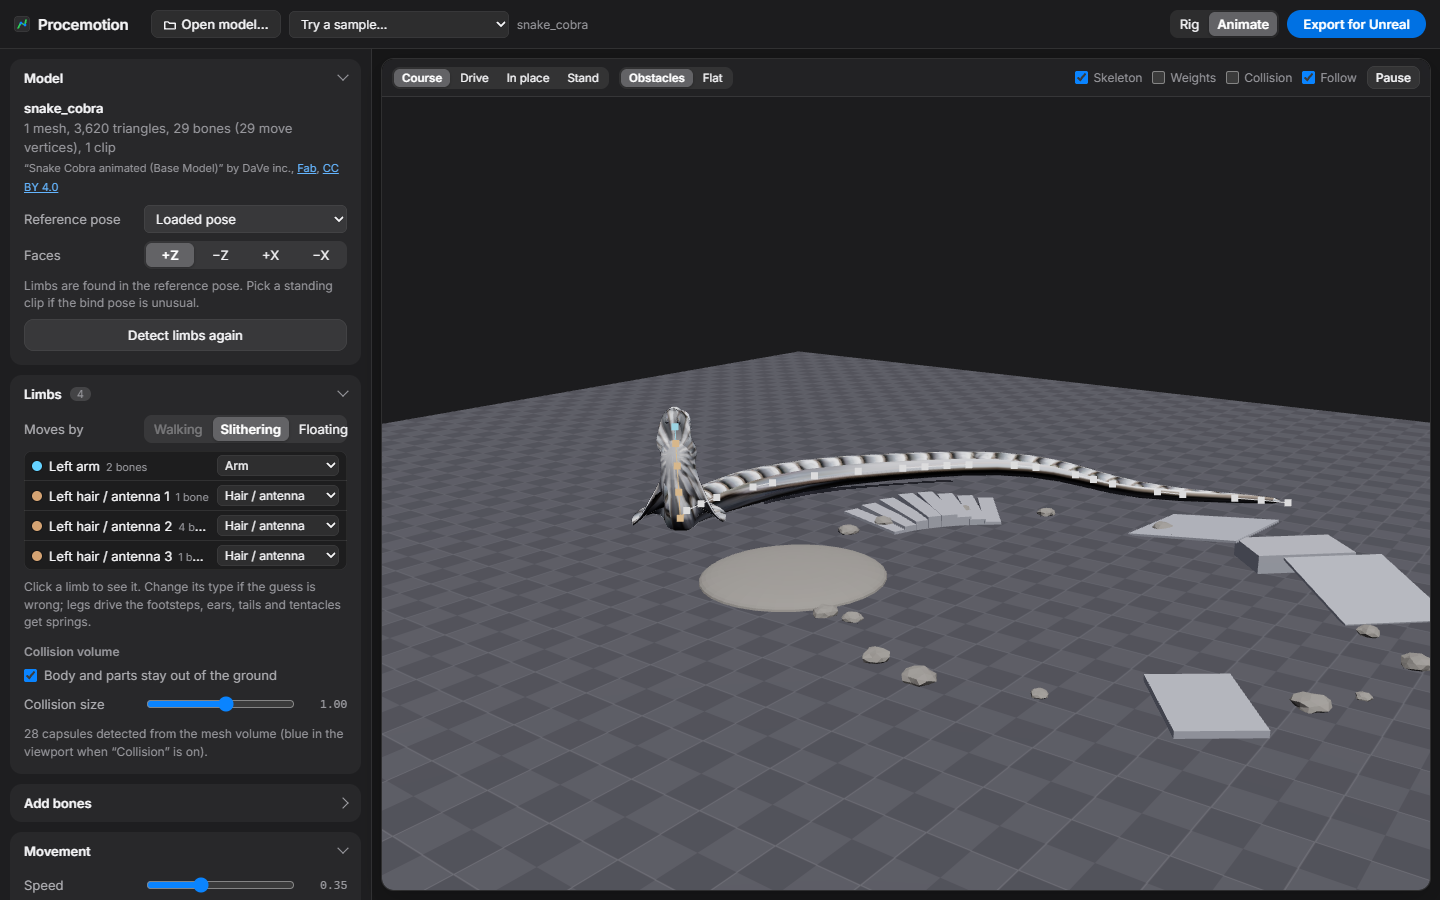
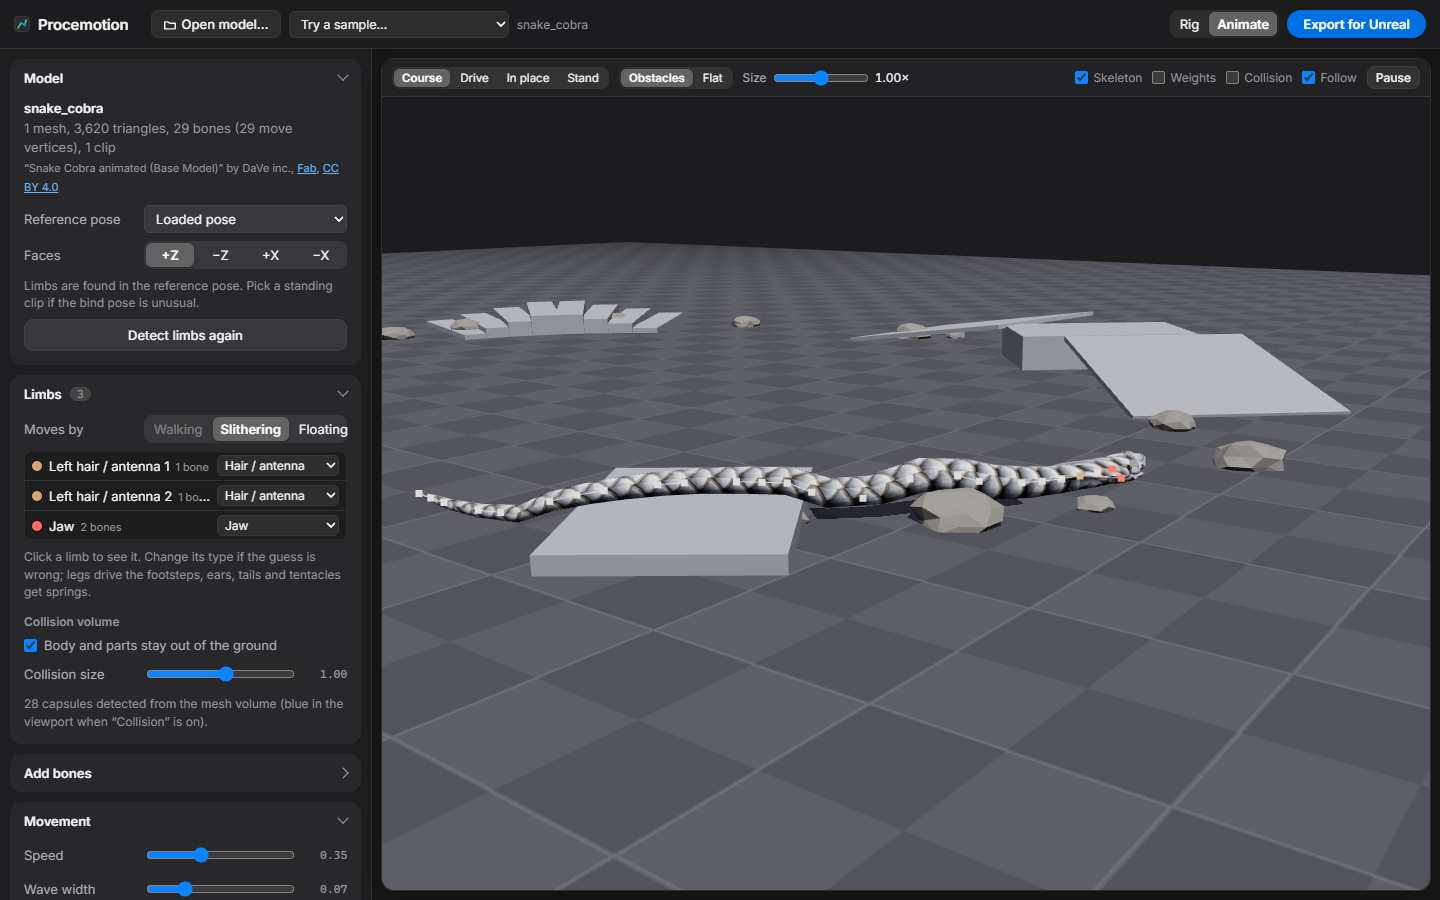
Snake climbs the course; Size slider in the viewport; serpent head and jaw
- Course sized by a serpent's length, head kept on the path, ground sampled under each joint
- Fixed the body flipping about the tail end when the chain has no tail past its root
- Serpent head continues to where it forks: lower branch is the Jaw, the snout moves with the head
- Size slider (0.25x to 4x, original in the middle) next to Obstacles / Flat
- Re-recorded the slither clip and snake screenshot

diff --git a/index.html b/index.html
@@ -40,7 +40,7 @@
     <div class="panel feature"><div class="ic"><svg viewBox="0 0 24 24" aria-hidden="true"><path d="M3 19h4l3-5 4 2 3-6h4"/><circle cx="7" cy="19" r="1"/><circle cx="17" cy="10" r="1"/></svg></div><h3>Feet on the ground</h3><p>Every step lands on the rock, slope or stair below it, and the body follows the ground. Tails and bodies keep out of it.</p></div>
     <div class="panel feature"><div class="ic"><svg viewBox="0 0 24 24" aria-hidden="true"><path d="M3 15c3-6 6-8 9-8s6 2 9 8"/><path d="M8 15l-2 4M16 15l2 4"/></svg></div><h3>Walk, gallop, all fours</h3><p>From a walk into a gallop as it speeds up. Two legs and two arms drop onto all fours to run, like a bear.</p></div>
     <div class="panel feature"><div class="ic"><svg viewBox="0 0 24 24" aria-hidden="true"><path d="M2 13c4-4 7-5 10-1 3-4 6-3 10 1"/><path d="M12 12v6"/></svg></div><h3>Flight</h3><p>Wingbeats modelled on real birds: a strong downstroke, folded upstroke, flap-and-glide, take-off and landing.</p></div>
-    <div class="panel feature"><div class="ic"><svg viewBox="0 0 24 24" aria-hidden="true"><path d="M3 16c3 0 3-5 6-5s3 5 6 5 3-5 6-5"/><circle cx="20.5" cy="10.5" r="1"/></svg></div><h3>Slither</h3><p>Snakes follow their own path with the head raised, and a serpent with wings or ears flies like a Chinese dragon.</p></div>
+    <div class="panel feature"><div class="ic"><svg viewBox="0 0 24 24" aria-hidden="true"><path d="M3 16c3 0 3-5 6-5s3 5 6 5 3-5 6-5"/><circle cx="20.5" cy="10.5" r="1"/></svg></div><h3>Slither</h3><p>Snakes follow their own path over rocks and steps, and a serpent with wings or ears flies like a Chinese dragon.</p></div>
     <div class="panel feature"><div class="ic"><svg viewBox="0 0 24 24" aria-hidden="true"><path d="M6 3c0 6 6 6 6 12s-4 6-4 6"/><path d="M16 3c-2 4 2 6 0 10"/></svg></div><h3>Springs</h3><p>Ears, tails, hair and tentacles swing with the body: they react to speeding up and turning, and stay out of the ground.</p></div>
     <div class="panel feature"><div class="ic"><svg viewBox="0 0 24 24" aria-hidden="true"><rect x="4" y="4" width="16" height="16" rx="2" stroke-dasharray="3 2"/><circle cx="9" cy="10" r="1.2"/><circle cx="14" cy="13" r="1.2"/></svg></div><h3>Fix it by hand</h3><p>When a model is unusual, box its joints and say what they are: leg, wing, tail. Saved for the next time you open it.</p></div>
     <div class="panel feature"><div class="ic"><svg viewBox="0 0 24 24" aria-hidden="true"><path d="M12 3v12M8 11l4 4 4-4"/><path d="M5 20h14"/></svg></div><h3>Add bones</h3><p>Give ears, tentacles and tails bones of their own, rig a model that has no skeleton, or add joints to a bendy body.</p></div>
@@ -61,8 +61,8 @@
     <figure class="demo"><a class="pic" href="app/?demo=spider"><img src="/img/demo-spider.png" alt="The sample spider walking on eight legs" loading="lazy"></a>
       <figcaption><b>Spider</b><span>Eight legs that step in two alternating groups of four.</span><a class="open go" href="app/?demo=spider">Open in the app</a>
       <small>“Spider animated character” by <a href="https://www.fab.com/listings/62456bda-b5f6-4372-8673-6471359c5e50">Bestgameassets</a> · CC BY 4.0</small></figcaption></figure>
-    <figure class="demo"><a class="pic" href="app/?demo=snake"><img src="/img/demo-snake.png" alt="The sample cobra slithering with its head raised" loading="lazy"></a>
-      <figcaption><b>Cobra</b><span>Slithering along its own path, head raised.</span><a class="open go" href="app/?demo=snake">Open in the app</a>
+    <figure class="demo"><a class="pic" href="app/?demo=snake"><img src="/img/demo-snake.png" alt="The sample cobra slithering over the test course" loading="lazy"></a>
+      <figcaption><b>Cobra</b><span>Slithering along its own path, over rocks and steps.</span><a class="open go" href="app/?demo=snake">Open in the app</a>
       <small>“Snake Cobra animated (Base Model)” by <a href="https://www.fab.com/listings/fa501201-17e7-49c2-a36a-a3b55834cfc7">DaVe inc.</a> · CC BY 4.0</small></figcaption></figure>
     <figure class="demo"><a class="pic" href="app/?demo=dragon&amp;fly=1"><img src="/img/demo-dragon.png" alt="The sample dragon flying over the course" loading="lazy"></a>
       <figcaption><b>Dragon</b><span>Wings and flight. Its 154 bones were classified by hand in the app; the classes come with it.</span><a class="open go" href="app/?demo=dragon&amp;fly=1">Open in the app</a>

diff --git a/src/main.js b/src/main.js
@@ -76,7 +76,7 @@ new ResizeObserver(resize).observe(canvas.parentElement);
 // ------------------------------------------------------------------ state
 const S = {
   creature: null, info: null, motion: null, ref: null, bind: null, refKey: 'rest', facing: '+Z',
-  footSets: [], mode: 'anim', ground: 'course', drive: 'course', selected: null, follow: true,
+  footSets: [], mode: 'anim', ground: 'course', modelScale: 1, drive: 'course', selected: null, follow: true,
   added: [], undo: [], clips: [], playing: null, place: null, template: null, suggestions: [], bakeSel: new Set(['walk', 'run', 'idle']),
   weightsOn: false, savedMaterials: null,
 };
@@ -174,6 +174,7 @@ async function openFiles(files) {
     holder.add(model);
     const cr = new Creature(model, animations, name);
     S.creature = cr;
+    setModelScale(0);
     S.clips = [];
     S.added = []; S.undo = [];
     S.selected = null;
@@ -267,8 +268,7 @@ function analyse({ keepLimbs = false, fresh = false } = {}) {
   refreshCapsules();
   // walking creatures need the standing pose as the reference pose in UE (Locomotor); others keep their own
   $('#rebindRef').checked = S.motion.legs.length > 0;
-  terrain.build(S.info.H, S.ground);
-  if (S.mode === 'rig') terrain.group.children.forEach((c) => { c.visible = c.name === 'Floor'; });
+  buildGround();
   S.motion.reset();
   fitCamera();
   if (S.mode === 'rig') enterRigPose();
@@ -1040,7 +1040,7 @@ function fitCameraH(H) {
   camera.near = H * 0.01; camera.far = H * 300; camera.updateProjectionMatrix();
   orbit.target.set(0, H * 0.5, 0);
   camera.position.set(H * 1.9, H * 0.9, H * 2.6);
-  terrain.build(H, S.ground);
+  buildGround();
 }
 function drawTemplate(keepSel) {
   clearGroup(tplGroup);
@@ -1214,9 +1214,32 @@ $('#groundSeg').addEventListener('click', (e) => {
   const b = e.target.closest('button'); if (!b) return;
   S.ground = b.dataset.g;
   $$('#groundSeg button').forEach((x) => x.classList.toggle('on', x === b));
-  terrain.build(S.info ? S.info.H : S._H || 1, S.ground);
+  buildGround();
   if (S.motion) S.motion.reset();
 });
+/**
+ * The test course is sized to the creature: by its height, or for a serpent by its length (a long, low body would
+ * otherwise get obstacles far smaller than its own thickness). Size (viewport) shows the model bigger or smaller
+ * than that by building the course the other way round, so the model, its motion and the export stay as they are.
+ */
+function courseSize() {
+  const I = S.info;
+  const base = I ? (I.style === 'slither' ? Math.max(I.H, 0.25 * (I.reach || I.H)) : I.H) : S._H || 1;
+  return base / S.modelScale;
+}
+function buildGround() { terrain.build(courseSize(), S.ground); if (S.mode === 'rig') terrain.group.children.forEach((c) => { c.visible = c.name === 'Floor'; }); }
+// slider -2 .. 2 = 0.25x .. 4x, original size in the middle
+function setModelScale(v) {
+  $('#modelScale').value = v;
+  S.modelScale = Math.pow(2, +v);
+  $('#modelScaleVal').textContent = S.modelScale.toFixed(2) + '×';
+}
+$('#modelScale').addEventListener('input', (e) => {
+  setModelScale(e.target.value);
+  buildGround();
+  if (S.motion) S.motion.reset();
+});
+$('#modelScale').addEventListener('dblclick', () => { setModelScale(0); buildGround(); if (S.motion) S.motion.reset(); });
 $('#showSkel').addEventListener('change', (e) => skel.visible(e.target.checked));
 $('#showCollision').addEventListener('change', (e) => { capView.group.visible = e.target.checked; });
 $('#follow').addEventListener('change', (e) => { S.follow = e.target.checked; });

diff --git a/src/motion.js b/src/motion.js
@@ -807,6 +807,12 @@ export class Motion {
     const K = this.snake;
     if (!K) return;
     const b = this.body;
+    // on the course the body starts lying along the path (the head leads along it, not along its tangent)
+    if (this.mode === 'course') {
+      K.trail = [];
+      for (let d = 0; d <= K.L * 1.3; d += 0.02 * K.L) K.trail.push(this.terrain.pathPoint(b.s + K.lead - d, V()));
+      return;
+    }
     const f = V().set(Math.sin(b.yaw), 0, Math.cos(b.yaw));
     const head = V().copy(b.pos).addScaledVector(f, K.lead);
     K.trail = [head, head.clone().addScaledVector(f, -K.L * 1.3)];
@@ -817,7 +823,8 @@ export class Motion {
     const L = K.L, fb = this.flightBlend;
     const inplace = this.mode === 'inplace' || this.mode === 'stand';
     // the head leads the body; the trail records where it has been
-    const head = _c.copy(b.pos).addScaledVector(fwd, K.lead);
+    // (on the course the head stays on the path, so the body crosses the obstacles instead of cutting the loop)
+    const head = this.mode === 'course' ? this.terrain.pathPoint(b.s + K.lead, _c) : _c.copy(b.pos).addScaledVector(fwd, K.lead);
     head.y = 0;
     if (inplace) K.trail = [head.clone(), head.clone().addScaledVector(fwd, -L * 1.3)];
     else {
@@ -850,11 +857,13 @@ export class Motion {
       const lateral = Math.sin(ph) * amp * env * (1 - 0.5 * fb);
       const u = s / Math.max(1e-6, neck);
       const neckUp = u < 1 ? (0.5 + 0.5 * Math.cos(Math.PI * u)) * raise : 0;
-      const groundY = (this.flatGround ? 0 : this.ground(base.x, base.z)) + K.r0 + neckUp;
+      const t = K.targets[i].copy(base).addScaledVector(nrm, lateral);
+      // the ground under where this joint actually lies (after the sideways wave), across the body's width,
+      // so the body rides over rocks and edges instead of cutting into them
+      const groundY = (this.flatGround || fb > 0.999 ? 0 : this.ground(t.x, t.z, K.r0 * 0.8)) + K.r0 + neckUp;
       // in the air: float at the flight height with an up-down wave (Chinese dragon)
       const airY = (this.flatGround ? this.liftY : moverY) + K.r0 + neckUp * 0.5
         + Math.sin(ph + Math.PI / 2) * P.flyAmp * L * THREE.MathUtils.smoothstep(s, 0, 0.3 * L);
-      const t = K.targets[i].copy(base).addScaledVector(nrm, lateral);
       t.y = THREE.MathUtils.lerp(groundY, airY, fb);
       t.add(off);
     });
@@ -874,8 +883,10 @@ export class Motion {
       if (!real(j, j + 1) || (j === ri && rootAimed)) continue;
       aimBone(O[j], worldPos(O[j + 1]), T[j + 1]);
     }
+    // the tail tip: aim the last bone at it, unless that bone is the root already aimed at the body (a chain with
+    // no tail past the root) - turning it again would swing the whole body about the tail end
     const last = O[O.length - 1];
-    aimBone(last, last.localToWorld(K.tipLocal.clone()), T[T.length - 1]);
+    if (!(ri === O.length - 1 && rootAimed)) aimBone(last, last.localToWorld(K.tipLocal.clone()), T[T.length - 1]);
     // head: its reference orientation, turned to face along the path
     const dir = _a.copy(T[0]).sub(T[Math.min(2, T.length - 1)]);
     dir.y = 0;

diff --git a/src/detect.js b/src/detect.js
@@ -336,6 +336,38 @@ export function detectLimbs(creature, opts = {}) {
   if (!head && trunkBones.length >= 7 && Math.max(...trunkBones.map((b) => P.get(b).y - ground)) < 0.6 * H) {
     const front = trunkBones[trunkBones.length - 1];
     for (const l of out) if ((l.type === 'leg' || l.type === 'arm') && boneParent(l.bones[0]) === front) { l.type = 'appendage'; l.effector = l.bones.length - 1; l.ikStart = 0; }
+    // the head lies past the trunk's end: follow the one long branch that carries on (neck, skull) to where it
+    // forks into parts of two bones or more (snout and lower jaw). That fork bone is the head; the branch reaching
+    // lowest is the jaw, the others are the face and move with the head. Short single bones on the way (eyes, a
+    // tongue) stay parts of their own.
+    const depth = (b) => 1 + Math.max(0, ...kids(b).map(depth));
+    const along = [];
+    let tip = front;
+    for (;;) {
+      const k = kids(tip);
+      const d = k.map(depth);
+      const big = k.filter((_, i) => d[i] >= 2);
+      if (big.length >= 2 || !big.length) break;
+      along.push(tip = big[0]);
+    }
+    const forks = kids(tip).filter((c) => depth(c) >= 2);
+    const span = along.reduce((a, b) => a + P.get(b).distanceTo(P.get(boneParent(b))), 0);
+    const trunkLen = trunkBones.reduce((a, b) => { const p = boneParent(b); return p && trunk.has(p) ? a + P.get(b).distanceTo(P.get(p)) : a; }, 0);
+    if (along.length && forks.length >= 2 && span < 0.25 * trunkLen) {
+      const chainOf = (b) => { const c = [b]; for (let k = kids(b); k.length === 1; k = kids(k[0])) c.push(k[0]); return c; };
+      const branches = forks.map(chainOf);
+      const lowY = branches.map((c) => Math.min(...c.map((b) => P.get(b).y)));
+      const ji = lowY.indexOf(Math.min(...lowY));
+      const jawBelow = lowY.every((y, i) => i === ji || y - lowY[ji] > 0.05 * H);
+      const headPart = (b) => along.includes(b) || isUnder(b, tip);
+      for (let i = out.length - 1; i >= 0; i--) if (out[i].bones.some(headPart)) out.splice(i, 1);
+      along.forEach((b) => trunk.add(b));
+      head = tip;
+      if (jawBelow) {
+        const chain = branches[ji];
+        out.push(makeLimb({ chain, parentBone: tip, type: 'jaw', side: 'C', pts: chain.map((b) => P.get(b)), ground, H, auto: true }));
+      }
+    }
   }
   // back wings come in mirrored pairs: one flat plate without a twin on the other side (an armour plate) isn't one
   for (const l of out) {

diff --git a/guide/index.html b/guide/index.html
@@ -67,7 +67,7 @@
     <img class="film" src="/guide/gallop.gif" alt="The wolf walking, then breaking into a gallop when the speed goes up" width="640" height="400" loading="lazy">
     <div class="gifs" style="margin-top:22px">
       <figure><img src="/guide/spider.gif" alt="The spider walking over rocks on eight legs" width="640" height="400" loading="lazy"><figcaption><b>Eight legs</b><span>Two groups of four take turns, each foot on the rock under it.</span></figcaption></figure>
-      <figure><img src="/guide/slither.gif" alt="The cobra slithering with its head raised" width="640" height="400" loading="lazy"><figcaption><b>Slither</b><span>The body follows its own path; the head stays up.</span></figcaption></figure>
+      <figure><img src="/guide/slither.gif" alt="The cobra slithering over the test course" width="640" height="400" loading="lazy"><figcaption><b>Slither</b><span>The body follows its own path and rides over the ground. <em>Size</em> in the viewport bar shows the model bigger or smaller next to the course.</span></figcaption></figure>
     </div>
     <img class="film" src="/guide/flight.gif" alt="The dragon taking off and flying over the course" width="640" height="400" loading="lazy">
   </section>

diff --git a/src/styles.css b/src/styles.css
@@ -108,6 +108,9 @@ input[type=range] { accent-color: var(--accent); height: 18px; }
 .seg button:disabled { opacity: .35; cursor: default; }
 .seg.mini { flex: none; }
 .seg.mini button { padding: 2px 8px; font-size: 11.5px; }
+.sizectl { display: flex; align-items: center; gap: 6px; flex: none; color: var(--text2, #aeaeb2); }
+.sizectl input { width: 96px; margin: 0; }
+.sizectl span { min-width: 38px; font-variant-numeric: tabular-nums; color: var(--text); }
 
 .chips { display: flex; flex-wrap: wrap; gap: 6px; }
 .chip { font: inherit; font-size: 12px; color: var(--text); background: var(--fill); border: 0; border-radius: 8px; box-shadow: inset 0 0 0 .5px var(--hair); padding: 6px 10px; cursor: pointer; text-align: left; line-height: 1.25; transition: background .15s ease; }

diff --git a/app/index.html b/app/index.html
@@ -260,6 +260,7 @@
             <button data-d="stand">Stand</button>
           </div>
           <div class="seg mini" id="groundSeg"><button data-g="course" class="on">Obstacles</button><button data-g="flat">Flat</button></div>
+          <label class="mini sizectl" title="Size of the model next to the course. Middle = original size; double-click to reset. Preview only: the exported size comes from UE import scale.">Size <input type="range" id="modelScale" min="-2" max="2" step="0.05" value="0" /><span id="modelScaleVal">1.00×</span></label>
           <span class="spacer"></span>
           <label class="mini"><input type="checkbox" id="showSkel" checked /> Skeleton</label>
           <label class="mini"><input type="checkbox" id="showWeights" /> Weights</label>

diff --git a/README.md b/README.md
@@ -33,6 +33,8 @@ The rest of this file explains how it works.
 4. **Moves it procedurally** over a test course (rocks, a step, ramps, stairs): footsteps for any number of legs, feet
    placed on the ground they land on, the body following the slope, springy ears/tails/tentacles, slithering, floating,
    flying, and actions (bite, charge, swipe, stomp, tail whip, roar, gust, hit, faint, jump, happy, look around).
+   **Size** (next to Obstacles / Flat) shows the model from 0.25× to 4× next to the course, original size in the
+   middle (double-click to reset); it is for the preview only, the exported size comes from *UE import scale*.
 5. **Bakes** clips (in place, flat ground, seamless loops) and **exports** for Unreal.
 
 ## Classifying bones by hand (Rig view, right panel)
@@ -154,8 +156,11 @@ wing**, and swaps the pairs on take-off and landing. You can also set **Folded w
 
 ## Serpents
 
-Long bodies without legs are posed as one chain that follows the path its head took: on the ground with the neck
-raised, or (Flight → Fly) floating in the air with an up-down wave. **Ears in flight** (Flight panel): *Springy*,
+Long bodies without legs are posed as one chain that follows the path its head took: on the ground, riding over
+rocks, steps and ramps (each joint sits on the ground under it, across the body's width), with the neck raised if
+the reference pose raises it, or (Flight → Fly) floating in the air with an up-down wave. The head is where the body
+forks into snout and jaw: the lower branch becomes the **Jaw**, the rest moves with the head. The test course is
+sized by a serpent's length rather than its height, so the obstacles are big enough to climb. **Ears in flight** (Flight panel): *Springy*,
 *Flap* (beating like wings) or *Spread* (held open with a light flutter). Fins or other parts can be set to **Wing**
 in the Limbs list to flap them too. In UE, serpents use the baked clips (Slither, Fly (serpent)); the generated rig adds
 the springs for ears and hair, but the Locomotor is only used for legged creatures.
